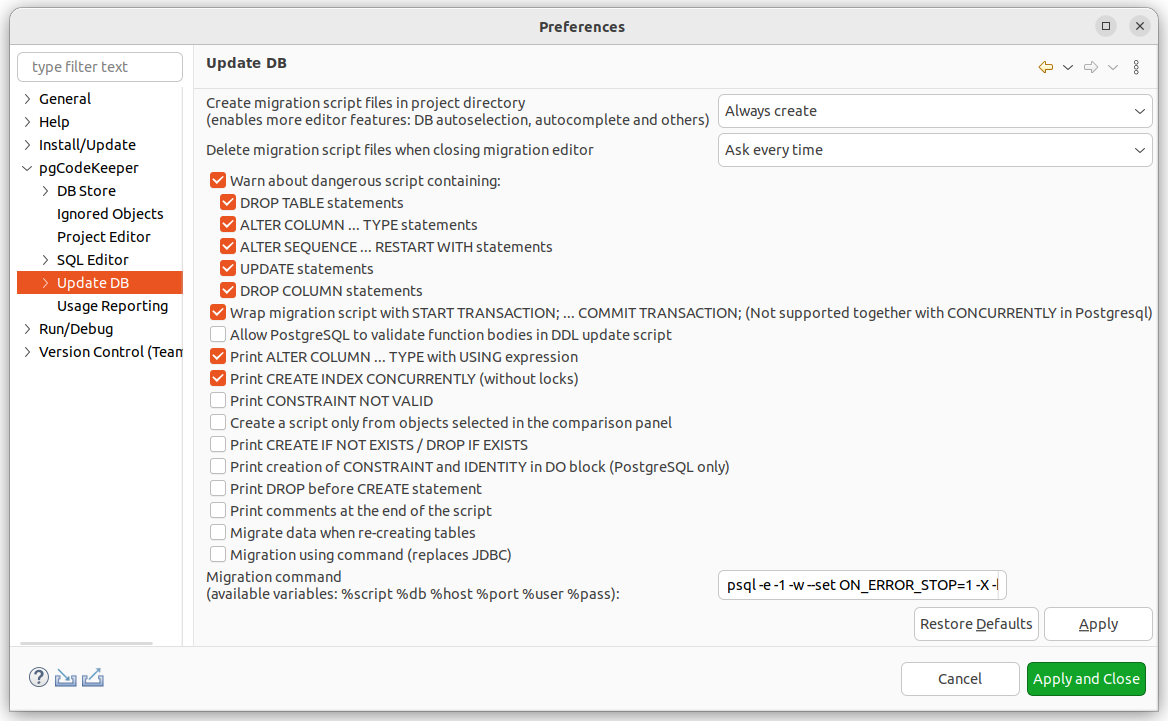
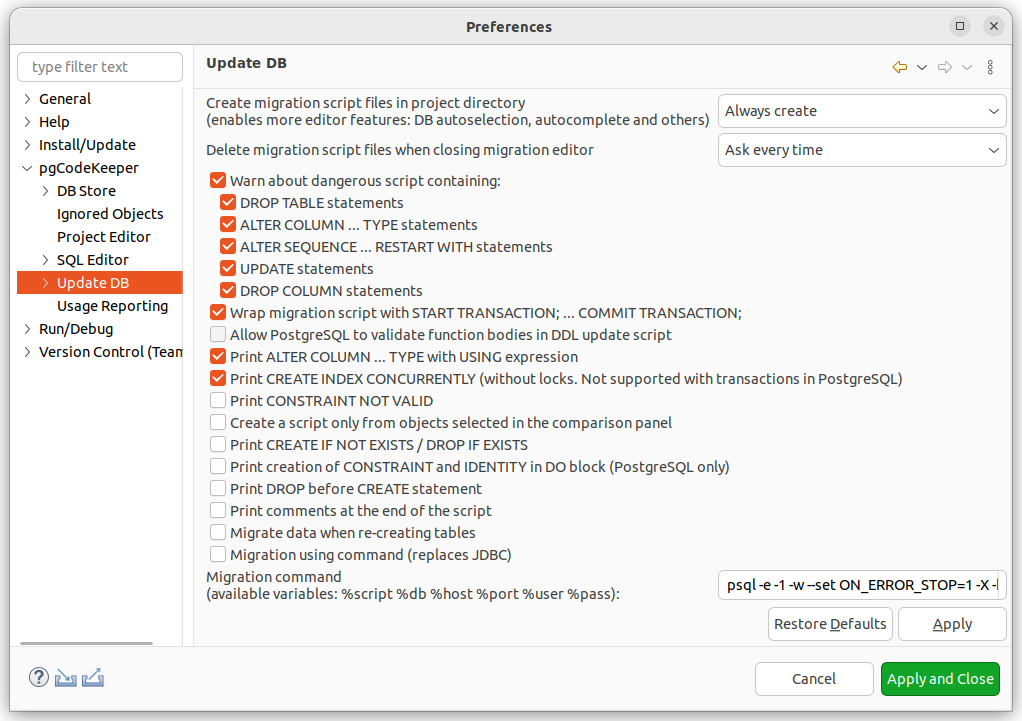
updated by feedback

diff --git a/docs/conf.py b/docs/conf.py
@@ -51,9 +51,9 @@ copyright = '2023, pgCodeKeeper'
 # built documents.
 #
 # The short X.Y version.
-version = '9.10'
+version = '9.13'
 # The full version, including alpha/beta/rc tags.
-release = '9.10.0'
+release = '9.13.0'
 
 # The language for content autogenerated by Sphinx. Refer to documentation
 # for a list of supported languages.

diff --git a/docs/preferences.rst b/docs/preferences.rst
@@ -53,10 +53,10 @@
 - **Delete migration script files when closing migration editor / Удалять файлы скриптов миграции после закрытия редактора** – определяет поведение при закрытии скриптов миграции, если они были созданы в директории проекта.
 - **Warn about dangerous scripts containing: / Предупреждать, если в скрипте присутствуют следующие выражения:** – позволяет предупреждать, если при генерации скрипта образовались выбранные опасные выражения.
 - **Show script output in separate window / Показывать вывод скрипт наката в отдельном окне** – позволяет просмотреть сообщение с ответом сервера при выполнении наката.
-- **Surround migration script with START TRANSACTION; ... COMMIT TRANSACTION;  (Not supported together with CONCURRENTLY in PostgreSQL) / Заключить скрипт наката в блок START TRANSACTION; ... COMMIT TRANSACTION; (Не поддерживается вместе с CONCURRENTLY в PostgreSQL)** – позволяет дополнять генерируемые скрипты парой start ... commit.
+- **Surround migration script with START TRANSACTION; ... COMMIT TRANSACTION; / Заключить скрипт наката в блок START TRANSACTION; ... COMMIT TRANSACTION;** – позволяет дополнять генерируемые скрипты парой start ... commit.
 - **Allow PostgreSQL to validate function bodies in DDL update script / Разрешить PostgreSQL проверять тела функций в скрипте наката** – позволяет при генерации скрипта добавлять проверку ``SET check_function_bodies = true;`` в начало скрипта.
 - **Print ALTER COLUMN ... TYPE with USING expression / Печатать ALTER COLUMN ... TYPE ... с USING expression** – позволяет добавлять в скрипт выражение, позволяющее изменить тип данных, при изменении типа столбца
-- **Print CREATE INDEX CONCURRENTLY (without locks) / Печатать CREATE INDEX CONCURRENTLY (без блокировок)** – позволяет в скриптах создавать индексы в режиме CONCURRENTLY.
+- **Print CREATE INDEX CONCURRENTLY (without locks.  Not supported with transactions in PostgreSQL) / Печатать CREATE INDEX CONCURRENTLY (без блокировок. Не поддерживается вместе с транзакциями в PostgreSQL)** – позволяет в скриптах создавать индексы в режиме CONCURRENTLY.
 - **Print CONSTRAINT NOT VALID / Печатать CONSTRAINT NOT VALID** - позволяет добавлять в скрипт миграции конструкцию ``NOT VALID`` для констрейнтов.
 - **Print CREATE IF NOT EXISTS/DROP IF EXISTS / Печатать CREATE IF NOT EXISTS/DROP IF EXISTS** – позволяет добавить конструкцию ``IF NOT EXISTS/IF EXISTS`` в скрипте миграции в конструкции CREATE / DROP объекта.
 - **Print creation of CONSTRAINT and IDENTITY in DO block (PostgreSQL only) / Печатать создание CONSTRAINT и IDENTITY в DO блоке (только для PostgreSQL)** - позволяет обернуть создание CONSTARAINT и IDENTITY в блок DO (только для PostgreSQL)
@@ -66,8 +66,7 @@
 - **Migrate data when re-creating tables / Мигрировать данные при пересоздании таблиц** - позволяет сохранить данные при пересоздании таблицы. При пересоздании существующая таблица переименовывается и создается новая, данные из исходной переливаются в новую. Старая переименованная таблица удаляется. Состояние IDENTITY SEQUENCE переносится из старой таблицы в новую. Обычные SEQUENCE не поддерживаются.
 - **Migration command / Команда миграции** - позволяет использовать другую утилиту или параметры запуска при применении скрипта наката к базе данных.
 
-.. warning:: Если при работе с проектом PostgreSQL одновременно включены параметры указанные на скриншоте ниже то параметр **Print CREATE INDEX CONCURRENTLY (without locks) / Печатать CREATE INDEX CONCURRENTLY (без блокировок)** будет игнорироваться.
-.. image:: ../images/db_update_spec_case.png
+.. warning:: Отключена генерация кода для создания индекса без блокировок при использовании транзакций для PostgreSQL.
 
 Во вкладке **Update DB / Обновление БД -> PRE/POST script** есть настройки для добавления PRE/POST скриптов для миграций. В проекте возможно создать директории PRE и POST, содержимое которых будет добавлено в начало и конец основного скрипта. Также доступны PRE/POST скрипты в глобальных настройках и в опциях CLI.
 Для редактирования содержимого скриптов PRE/POST выберите соответствующие кнопки.
